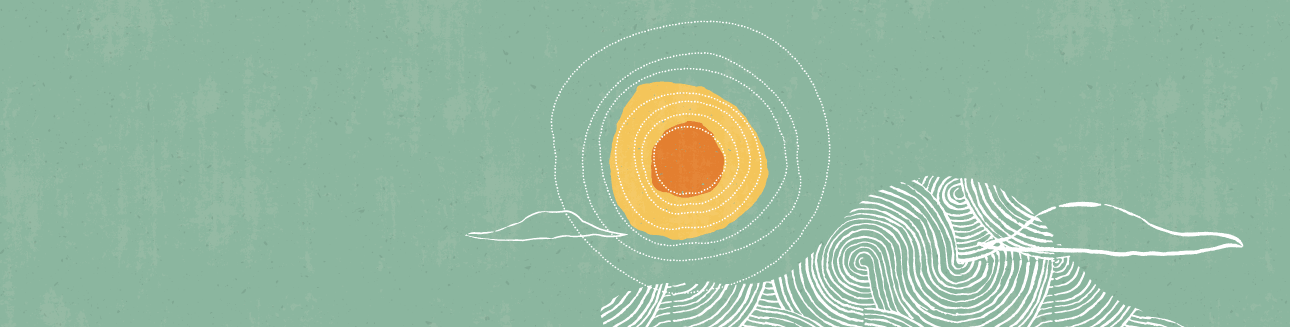
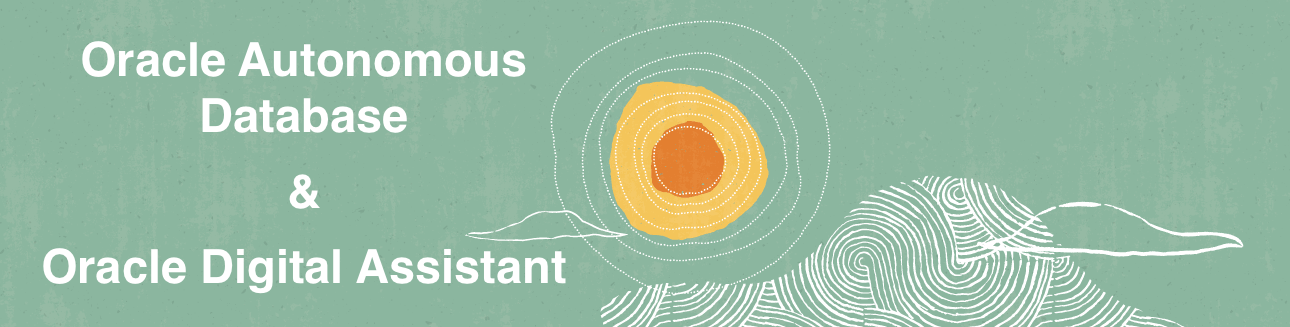
Add more content to Custom Component part

diff --git a/lab4/README.md b/lab4/README.md
@@ -1,14 +1,122 @@
 # Lab 4: Implement Custom Component
 
-**XXX**
+Oracle Digital Assistant allows you to build integrations with backend services by creating Custom Components.
+
+Custom Components are a bridge between Skills on Oracle Digital Assistant and the services where information can be fetched.
+
+![Custom Component Architecture](../images/oda_cc_architecture.png)
+
+Custom components allow you as well to plug-in custom code logic into a bot conversation.
+
+That is exactly what we are going to build.
+
+Custom Components are developed using Node.js. They are just a REST API that offer an endpoint to Skills bots to `GET` and `POST` actions.
+
+![Custom Component](../images/oda_cc.png)
+
+You can package related custom components together.
 
 ## Create a Custom Component to integrate with backend services
 
-**XXX**
+Oracle provides Oracle Bots Node.js SDK, a free utility that makes custom components development very easy.
+
+### Before you start
+
+```bash
+node -v
+```
+
+```bash
+npm -v
+```
+
+```bash
+npx @oracle/bots-node-sdk -v
+```
+
+```bash
+npx @oracle/bots-node-sdk init natter --component-name jokes
+```
+
+The result should look like this:
+
+```bash
+---------------------------------------------------------------------
+Custom Component package 'natter' created successfully!
+---------------------------------------------------------------------
+
+Usage:
+
+  cd natter
+  npm start    Start a dev server with the component package
+```
+
+The new folder natter is created with this hierarchy:
+
+```bash
+natter/
+├── README.md
+├── components
+│   └── `jokes.js`
+├── main.js
+├── package-lock.json
+├── package.json
+└── spec
+    ├── test.cc.req.json
+    └── test.eh.req.json
+```
+
+> Note you should also have a `node_modules` folder with all the needed dependencies.
+
+Change directory to natter:
+
+```bash
+cd natter
+```
+
+We are going to install some other dependencies we will need soon:
+
+```bash
+npm install request
+```
+
+Good practice: Open the `package.json` file and change the name from `my-custom-component` to `natter`.
+
+Let's take a look on `jokes.js` where we will work the most of the time:
+
+To avoid name conflicts, change the `name` property of the `metadata` function:
+
+```javascript
+   name: 'com.example.jokes',
+```
+
+```javascript
+Full code goes here!
+```
 
 ## Deploy the custom component
 
-**XXX**
+Custom Components can be deployed in different ways:
+
+- Local Component Container: single instance deployment as custom component resides in skill bot
+- Mobile Hub: multi-channel environment with mobile extras and shared instance deployment.
+- Node Container: shared instance but no need for mobile extras.
+
+Package your Custom Component
+
+```bash
+npm pack
+```
+
+The output should contain:
+
+```bash
+---------------------------------------------------------------------
+Component Package 'natter' is valid!
+---------------------------------------------------------------------
+```
+
+And write a file called `natter-1.0.0.tgz`.
 
 ## It works
 

diff --git a/README.md b/README.md
@@ -1,20 +1,18 @@
-# Oracle APEX and Digital Assistant
+# Oracle Autonomous Database and Digital Assistant
 
 ![Oracle](images/oracle_small.png)
 
 ## Conversational approach to your applications
 
-This workshop walks you through the steps to build an APEX application and enable you to talk to your customers by integrating Digital Assistant and your backend REST API.
-
-Oracle Application Express (APEX) is included with your Oracle Autonomous Databases. Therefore, APEX inherits the self-driving, self-securing, self-repairing features and it can instantly scale to meet your demands.
+This workshop walks you through the steps to use Autonomous Database as NoSQL repository, offer a REST API to integrate and enable you to talk to your customers by with Digital Assistant and your backend REST API.
 
 ## Who Should Read This Workshop
 
-You want to **build APEX applications** and provide **a 24/7 conversational experience** with the people using your services.
+You want to **store information in a easy and powerful database** and provide **a 24/7 conversational experience** with the people using your services.
 
 You want to **learn Oracle Digital Assistant** in Oracle Cloud.
 
-You are also interested in exploring other technologies to build **low-code applications**.
+You are also interested in exploring modern ways to store information like **NoSQL** technologies and build **secure and powerful RES APIs**.
 
 ## Requirements
 
@@ -34,15 +32,15 @@ At this point, you are ready to start learning!
 
 ## Content
 
-[Lab 1: Create Application Express (APEX)](lab1/README.md)
+[Lab 1: Create Autonomous Database](lab1/README.md)
 
 - Create your Autonomous Database
-- Create an APEX workspace
+- Quick walk-through
 
 [Lab 2: Create Application and REST API](lab2/README.md)
 
-- Quick SQL for a fast generation of data model
-- Generate the REST API from the data model
+- Simple Object Data Access (SODA)
+- Use the REST API
 
 [Lab 3: Create Oracle Digital Assistant](lab3/README.md)
 

diff --git a/lab2/README.md b/lab2/README.md
@@ -1,18 +1,64 @@
 # Lab 2: Create Application and REST API
 
-**XXX**
+**XXX** Intro to REST and SODA
 
-## Quick SQL for a fast generation of data model
+## Simple Object Data Access (SODA)
 
-**XXX**
+**XXX** expand details about SODA
 
-## Generate the REST API from the data model
+Enable `ADMIN` user to use SODA by running the following statement on SQL Developer Web:
 
-**XXX**
+```sql
+GRANT SODA_APP TO admin;
+```
+
+## Use the REST API
+
+Create jokes collection
+
+```bash
+curl -XPUT -u 'ADMIN:<password>' 'https://<soda_instance_url>/admin/soda/latest/jokes'
+```
+
+```bash
+curl -XPOST -H "Content-Type: application/json" -u 'ADMIN:<password>' --data '{"text": "Hello JSON"}' 'https://<soda_instalce_url>/admin/soda/latest/jokes'
+```
 
 ## It works
 
-**XXX**
+Look at the shape of the table behind SODA, go to SQL Developer Web and run:
+
+```sql
+DESCRIBE JOKES;
+```
+
+You will see something like this:
+
+```bash
+Name          Null?    Type
+------------- -------- -------------
+ID            NOT NULL VARCHAR2(255)
+CREATED_ON    NOT NULL TIMESTAMP(6)
+LAST_MODIFIED NOT NULL TIMESTAMP(6)
+VERSION       NOT NULL VARCHAR2(255)
+JSON_DOCUMENT          BLOB
+```
+
+**XXX** Explain a bit of the structure of the table
+
+Check the content of the table `jokes` on SQL Developer Web:
+
+```sql
+SELECT * FROM JOKES;
+```
+
+How many rows do you see?
+
+Do the same request with REST API:
+
+```bash
+curl -u 'ADMIN:<password>' 'https://<soda_intance_url>/admin/soda/latest/jokes'
+```
 
 Congratulations! You are ready to go to the next Lab!
 

diff --git a/lab1/README.md b/lab1/README.md
@@ -1,4 +1,6 @@
-# Lab 1: Create Application Express (APEX)
+# Lab 1: Create Autonomous Database
+
+![Autonomous](../images/autonomous.webp)
 
 **XXX**
 
@@ -6,7 +8,7 @@
 
 **XXX**
 
-## Create an APEX workspace
+## Quick walk-through
 
 **XXX**
 

diff --git a/lab3/README.md b/lab3/README.md
@@ -1,5 +1,7 @@
 # Lab 3: Create Oracle Digital Assistant
 
+![Oracle Digital Assistant](../images/oda.png)
+
 **XXX**
 
 ## Create a Digital Assistant instance
